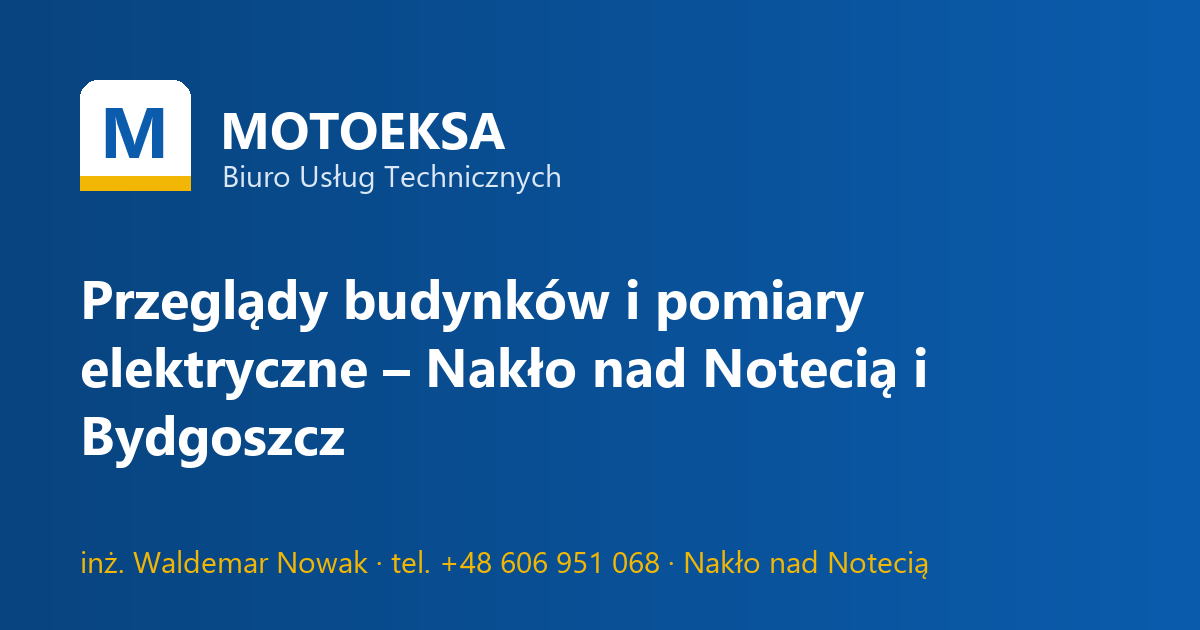
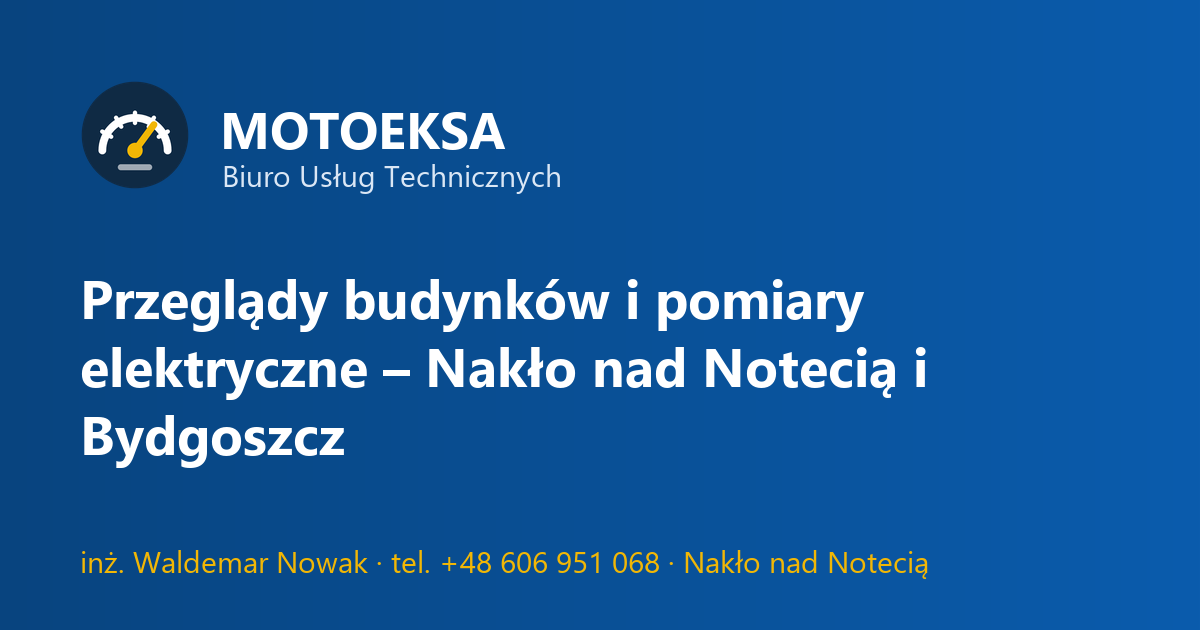
Aktualizacja strony 2026-10-22 14:14

Changed region(s): [[0.0617, 0.1206, 0.185, 0.3016]]

diff --git a/index.html b/index.html
@@ -101,7 +101,9 @@
     }
    ],
    "sameAs": [
-    "https://share.google/DEgC0BHQFHlprhYzm"
+    "https://share.google/DEgC0BHQFHlprhYzm",
+    "https://www.linkedin.com/in/waldemar-nowak-a03078222/",
+    "https://www.wpolsce24.pl/firma,1470610,Biuro+Us%C5%82ug+Technicznych+MOTOEKSA+Waldemar+Nowak.html"
    ],
    "openingHoursSpecification": [
     {
@@ -178,7 +180,7 @@
 
 <header class="naglowek">
   <div class="kontener naglowek-wnetrze">
-    <a class="logo" href="#start"><span class="logo-znak">M</span><span><b>MOTOEKSA</b><small>Biuro Usług Technicznych</small></span></a>
+    <a class="logo" href="#start"><span class="logo-znak logo-znak-svg" aria-hidden="true"><svg xmlns="http://www.w3.org/2000/svg" viewBox="0 0 64 64" width="40" height="40"><circle cx="32" cy="32" r="31" fill="#0f2a44"/><path d="M13 41 A19 19 0 0 1 51 41" fill="none" stroke="#fff" stroke-width="4.5" stroke-linecap="round"/><line x1="32" y1="25" x2="32" y2="19" stroke="#fff" stroke-width="2.5" stroke-linecap="round" transform="rotate(-60 32 41)"/><line x1="32" y1="25" x2="32" y2="19" stroke="#fff" stroke-width="2.5" stroke-linecap="round" transform="rotate(-30 32 41)"/><line x1="32" y1="25" x2="32" y2="19" stroke="#fff" stroke-width="2.5" stroke-linecap="round" transform="rotate(0 32 41)"/><line x1="32" y1="25" x2="32" y2="19" stroke="#fff" stroke-width="2.5" stroke-linecap="round" transform="rotate(30 32 41)"/><line x1="32" y1="25" x2="32" y2="19" stroke="#fff" stroke-width="2.5" stroke-linecap="round" transform="rotate(60 32 41)"/><line x1="32" y1="41" x2="43" y2="26" stroke="#f2b705" stroke-width="4" stroke-linecap="round"/><circle cx="32" cy="41" r="4.5" fill="#f2b705"/><rect x="22" y="49" width="20" height="3.5" rx="1.75" fill="#fff" opacity=".6"/></svg></span><span><b>MOTOEKSA</b><small>Biuro Usług Technicznych</small></span></a>
     <nav class="menu" aria-label="Menu główne">
       <a href="#uslugi">Usługi</a>
       <a href="#protokoly">Protokoły</a>

diff --git a/kompensacja-mocy-biernej/index.html b/kompensacja-mocy-biernej/index.html
@@ -101,7 +101,9 @@
     }
    ],
    "sameAs": [
-    "https://share.google/DEgC0BHQFHlprhYzm"
+    "https://share.google/DEgC0BHQFHlprhYzm",
+    "https://www.linkedin.com/in/waldemar-nowak-a03078222/",
+    "https://www.wpolsce24.pl/firma,1470610,Biuro+Us%C5%82ug+Technicznych+MOTOEKSA+Waldemar+Nowak.html"
    ],
    "openingHoursSpecification": [
     {
@@ -288,7 +290,7 @@
 
 <header class="naglowek">
   <div class="kontener naglowek-wnetrze">
-    <a class="logo" href="../"><span class="logo-znak">M</span><span><b>MOTOEKSA</b><small>Biuro Usług Technicznych</small></span></a>
+    <a class="logo" href="../"><span class="logo-znak logo-znak-svg" aria-hidden="true"><svg xmlns="http://www.w3.org/2000/svg" viewBox="0 0 64 64" width="40" height="40"><circle cx="32" cy="32" r="31" fill="#0f2a44"/><path d="M13 41 A19 19 0 0 1 51 41" fill="none" stroke="#fff" stroke-width="4.5" stroke-linecap="round"/><line x1="32" y1="25" x2="32" y2="19" stroke="#fff" stroke-width="2.5" stroke-linecap="round" transform="rotate(-60 32 41)"/><line x1="32" y1="25" x2="32" y2="19" stroke="#fff" stroke-width="2.5" stroke-linecap="round" transform="rotate(-30 32 41)"/><line x1="32" y1="25" x2="32" y2="19" stroke="#fff" stroke-width="2.5" stroke-linecap="round" transform="rotate(0 32 41)"/><line x1="32" y1="25" x2="32" y2="19" stroke="#fff" stroke-width="2.5" stroke-linecap="round" transform="rotate(30 32 41)"/><line x1="32" y1="25" x2="32" y2="19" stroke="#fff" stroke-width="2.5" stroke-linecap="round" transform="rotate(60 32 41)"/><line x1="32" y1="41" x2="43" y2="26" stroke="#f2b705" stroke-width="4" stroke-linecap="round"/><circle cx="32" cy="41" r="4.5" fill="#f2b705"/><rect x="22" y="49" width="20" height="3.5" rx="1.75" fill="#fff" opacity=".6"/></svg></span><span><b>MOTOEKSA</b><small>Biuro Usług Technicznych</small></span></a>
     <nav class="menu" aria-label="Menu główne">
       <a href="../">Strona główna</a>
       <a href="../#uslugi">Usługi</a>

diff --git a/oplata-mocowa-analiza-energii/index.html b/oplata-mocowa-analiza-energii/index.html
@@ -101,7 +101,9 @@
     }
    ],
    "sameAs": [
-    "https://share.google/DEgC0BHQFHlprhYzm"
+    "https://share.google/DEgC0BHQFHlprhYzm",
+    "https://www.linkedin.com/in/waldemar-nowak-a03078222/",
+    "https://www.wpolsce24.pl/firma,1470610,Biuro+Us%C5%82ug+Technicznych+MOTOEKSA+Waldemar+Nowak.html"
    ],
    "openingHoursSpecification": [
     {
@@ -288,7 +290,7 @@
 
 <header class="naglowek">
   <div class="kontener naglowek-wnetrze">
-    <a class="logo" href="../"><span class="logo-znak">M</span><span><b>MOTOEKSA</b><small>Biuro Usług Technicznych</small></span></a>
+    <a class="logo" href="../"><span class="logo-znak logo-znak-svg" aria-hidden="true"><svg xmlns="http://www.w3.org/2000/svg" viewBox="0 0 64 64" width="40" height="40"><circle cx="32" cy="32" r="31" fill="#0f2a44"/><path d="M13 41 A19 19 0 0 1 51 41" fill="none" stroke="#fff" stroke-width="4.5" stroke-linecap="round"/><line x1="32" y1="25" x2="32" y2="19" stroke="#fff" stroke-width="2.5" stroke-linecap="round" transform="rotate(-60 32 41)"/><line x1="32" y1="25" x2="32" y2="19" stroke="#fff" stroke-width="2.5" stroke-linecap="round" transform="rotate(-30 32 41)"/><line x1="32" y1="25" x2="32" y2="19" stroke="#fff" stroke-width="2.5" stroke-linecap="round" transform="rotate(0 32 41)"/><line x1="32" y1="25" x2="32" y2="19" stroke="#fff" stroke-width="2.5" stroke-linecap="round" transform="rotate(30 32 41)"/><line x1="32" y1="25" x2="32" y2="19" stroke="#fff" stroke-width="2.5" stroke-linecap="round" transform="rotate(60 32 41)"/><line x1="32" y1="41" x2="43" y2="26" stroke="#f2b705" stroke-width="4" stroke-linecap="round"/><circle cx="32" cy="41" r="4.5" fill="#f2b705"/><rect x="22" y="49" width="20" height="3.5" rx="1.75" fill="#fff" opacity=".6"/></svg></span><span><b>MOTOEKSA</b><small>Biuro Usług Technicznych</small></span></a>
     <nav class="menu" aria-label="Menu główne">
       <a href="../">Strona główna</a>
       <a href="../#uslugi">Usługi</a>

diff --git a/pomiary-elektryczne/index.html b/pomiary-elektryczne/index.html
@@ -101,7 +101,9 @@
     }
    ],
    "sameAs": [
-    "https://share.google/DEgC0BHQFHlprhYzm"
+    "https://share.google/DEgC0BHQFHlprhYzm",
+    "https://www.linkedin.com/in/waldemar-nowak-a03078222/",
+    "https://www.wpolsce24.pl/firma,1470610,Biuro+Us%C5%82ug+Technicznych+MOTOEKSA+Waldemar+Nowak.html"
    ],
    "openingHoursSpecification": [
     {
@@ -288,7 +290,7 @@
 
 <header class="naglowek">
   <div class="kontener naglowek-wnetrze">
-    <a class="logo" href="../"><span class="logo-znak">M</span><span><b>MOTOEKSA</b><small>Biuro Usług Technicznych</small></span></a>
+    <a class="logo" href="../"><span class="logo-znak logo-znak-svg" aria-hidden="true"><svg xmlns="http://www.w3.org/2000/svg" viewBox="0 0 64 64" width="40" height="40"><circle cx="32" cy="32" r="31" fill="#0f2a44"/><path d="M13 41 A19 19 0 0 1 51 41" fill="none" stroke="#fff" stroke-width="4.5" stroke-linecap="round"/><line x1="32" y1="25" x2="32" y2="19" stroke="#fff" stroke-width="2.5" stroke-linecap="round" transform="rotate(-60 32 41)"/><line x1="32" y1="25" x2="32" y2="19" stroke="#fff" stroke-width="2.5" stroke-linecap="round" transform="rotate(-30 32 41)"/><line x1="32" y1="25" x2="32" y2="19" stroke="#fff" stroke-width="2.5" stroke-linecap="round" transform="rotate(0 32 41)"/><line x1="32" y1="25" x2="32" y2="19" stroke="#fff" stroke-width="2.5" stroke-linecap="round" transform="rotate(30 32 41)"/><line x1="32" y1="25" x2="32" y2="19" stroke="#fff" stroke-width="2.5" stroke-linecap="round" transform="rotate(60 32 41)"/><line x1="32" y1="41" x2="43" y2="26" stroke="#f2b705" stroke-width="4" stroke-linecap="round"/><circle cx="32" cy="41" r="4.5" fill="#f2b705"/><rect x="22" y="49" width="20" height="3.5" rx="1.75" fill="#fff" opacity=".6"/></svg></span><span><b>MOTOEKSA</b><small>Biuro Usług Technicznych</small></span></a>
     <nav class="menu" aria-label="Menu główne">
       <a href="../">Strona główna</a>
       <a href="../#uslugi">Usługi</a>

diff --git a/przeglady-budynkow/index.html b/przeglady-budynkow/index.html
@@ -101,7 +101,9 @@
     }
    ],
    "sameAs": [
-    "https://share.google/DEgC0BHQFHlprhYzm"
+    "https://share.google/DEgC0BHQFHlprhYzm",
+    "https://www.linkedin.com/in/waldemar-nowak-a03078222/",
+    "https://www.wpolsce24.pl/firma,1470610,Biuro+Us%C5%82ug+Technicznych+MOTOEKSA+Waldemar+Nowak.html"
    ],
    "openingHoursSpecification": [
     {
@@ -296,7 +298,7 @@
 
 <header class="naglowek">
   <div class="kontener naglowek-wnetrze">
-    <a class="logo" href="../"><span class="logo-znak">M</span><span><b>MOTOEKSA</b><small>Biuro Usług Technicznych</small></span></a>
+    <a class="logo" href="../"><span class="logo-znak logo-znak-svg" aria-hidden="true"><svg xmlns="http://www.w3.org/2000/svg" viewBox="0 0 64 64" width="40" height="40"><circle cx="32" cy="32" r="31" fill="#0f2a44"/><path d="M13 41 A19 19 0 0 1 51 41" fill="none" stroke="#fff" stroke-width="4.5" stroke-linecap="round"/><line x1="32" y1="25" x2="32" y2="19" stroke="#fff" stroke-width="2.5" stroke-linecap="round" transform="rotate(-60 32 41)"/><line x1="32" y1="25" x2="32" y2="19" stroke="#fff" stroke-width="2.5" stroke-linecap="round" transform="rotate(-30 32 41)"/><line x1="32" y1="25" x2="32" y2="19" stroke="#fff" stroke-width="2.5" stroke-linecap="round" transform="rotate(0 32 41)"/><line x1="32" y1="25" x2="32" y2="19" stroke="#fff" stroke-width="2.5" stroke-linecap="round" transform="rotate(30 32 41)"/><line x1="32" y1="25" x2="32" y2="19" stroke="#fff" stroke-width="2.5" stroke-linecap="round" transform="rotate(60 32 41)"/><line x1="32" y1="41" x2="43" y2="26" stroke="#f2b705" stroke-width="4" stroke-linecap="round"/><circle cx="32" cy="41" r="4.5" fill="#f2b705"/><rect x="22" y="49" width="20" height="3.5" rx="1.75" fill="#fff" opacity=".6"/></svg></span><span><b>MOTOEKSA</b><small>Biuro Usług Technicznych</small></span></a>
     <nav class="menu" aria-label="Menu główne">
       <a href="../">Strona główna</a>
       <a href="../#uslugi">Usługi</a>

diff --git a/swiadectwa-energetyczne-audyty/index.html b/swiadectwa-energetyczne-audyty/index.html
@@ -101,7 +101,9 @@
     }
    ],
    "sameAs": [
-    "https://share.google/DEgC0BHQFHlprhYzm"
+    "https://share.google/DEgC0BHQFHlprhYzm",
+    "https://www.linkedin.com/in/waldemar-nowak-a03078222/",
+    "https://www.wpolsce24.pl/firma,1470610,Biuro+Us%C5%82ug+Technicznych+MOTOEKSA+Waldemar+Nowak.html"
    ],
    "openingHoursSpecification": [
     {
@@ -304,7 +306,7 @@
 
 <header class="naglowek">
   <div class="kontener naglowek-wnetrze">
-    <a class="logo" href="../"><span class="logo-znak">M</span><span><b>MOTOEKSA</b><small>Biuro Usług Technicznych</small></span></a>
+    <a class="logo" href="../"><span class="logo-znak logo-znak-svg" aria-hidden="true"><svg xmlns="http://www.w3.org/2000/svg" viewBox="0 0 64 64" width="40" height="40"><circle cx="32" cy="32" r="31" fill="#0f2a44"/><path d="M13 41 A19 19 0 0 1 51 41" fill="none" stroke="#fff" stroke-width="4.5" stroke-linecap="round"/><line x1="32" y1="25" x2="32" y2="19" stroke="#fff" stroke-width="2.5" stroke-linecap="round" transform="rotate(-60 32 41)"/><line x1="32" y1="25" x2="32" y2="19" stroke="#fff" stroke-width="2.5" stroke-linecap="round" transform="rotate(-30 32 41)"/><line x1="32" y1="25" x2="32" y2="19" stroke="#fff" stroke-width="2.5" stroke-linecap="round" transform="rotate(0 32 41)"/><line x1="32" y1="25" x2="32" y2="19" stroke="#fff" stroke-width="2.5" stroke-linecap="round" transform="rotate(30 32 41)"/><line x1="32" y1="25" x2="32" y2="19" stroke="#fff" stroke-width="2.5" stroke-linecap="round" transform="rotate(60 32 41)"/><line x1="32" y1="41" x2="43" y2="26" stroke="#f2b705" stroke-width="4" stroke-linecap="round"/><circle cx="32" cy="41" r="4.5" fill="#f2b705"/><rect x="22" y="49" width="20" height="3.5" rx="1.75" fill="#fff" opacity=".6"/></svg></span><span><b>MOTOEKSA</b><small>Biuro Usług Technicznych</small></span></a>
     <nav class="menu" aria-label="Menu główne">
       <a href="../">Strona główna</a>
       <a href="../#uslugi">Usługi</a>

diff --git a/polityka-prywatnosci.html b/polityka-prywatnosci.html
@@ -28,7 +28,7 @@
 
 <header class="naglowek">
   <div class="kontener naglowek-wnetrze">
-    <a class="logo" href="index.html"><span class="logo-znak">M</span><span><b>MOTOEKSA</b><small>Biuro Usług Technicznych</small></span></a>
+    <a class="logo" href="index.html"><span class="logo-znak logo-znak-svg" aria-hidden="true"><svg xmlns="http://www.w3.org/2000/svg" viewBox="0 0 64 64" width="40" height="40"><circle cx="32" cy="32" r="31" fill="#0f2a44"/><path d="M13 41 A19 19 0 0 1 51 41" fill="none" stroke="#fff" stroke-width="4.5" stroke-linecap="round"/><line x1="32" y1="25" x2="32" y2="19" stroke="#fff" stroke-width="2.5" stroke-linecap="round" transform="rotate(-60 32 41)"/><line x1="32" y1="25" x2="32" y2="19" stroke="#fff" stroke-width="2.5" stroke-linecap="round" transform="rotate(-30 32 41)"/><line x1="32" y1="25" x2="32" y2="19" stroke="#fff" stroke-width="2.5" stroke-linecap="round" transform="rotate(0 32 41)"/><line x1="32" y1="25" x2="32" y2="19" stroke="#fff" stroke-width="2.5" stroke-linecap="round" transform="rotate(30 32 41)"/><line x1="32" y1="25" x2="32" y2="19" stroke="#fff" stroke-width="2.5" stroke-linecap="round" transform="rotate(60 32 41)"/><line x1="32" y1="41" x2="43" y2="26" stroke="#f2b705" stroke-width="4" stroke-linecap="round"/><circle cx="32" cy="41" r="4.5" fill="#f2b705"/><rect x="22" y="49" width="20" height="3.5" rx="1.75" fill="#fff" opacity=".6"/></svg></span><span><b>MOTOEKSA</b><small>Biuro Usług Technicznych</small></span></a>
     <nav class="menu" aria-label="Menu główne">
       <a href="index.html">Strona główna</a>
       <a href="index.html#kontakt" class="menu-kontakt">Kontakt</a>

diff --git a/styl.css b/styl.css
@@ -54,6 +54,8 @@ h3 { font-size: 1.12rem; }
   background: var(--akcent); color: #fff; font-weight: 700; font-size: 1.3rem;
   box-shadow: inset 0 -4px 0 var(--zolty);
 }
+.logo-znak-svg { background: none; box-shadow: none; border-radius: 0; }
+.logo-znak-svg svg { display: block; width: 40px; height: 40px; }
 .menu { display: flex; gap: 4px; flex-wrap: wrap; }
 .menu a { text-decoration: none; color: var(--tekst); padding: 8px 12px; border-radius: 6px; font-size: .95rem; }
 .menu a:hover { background: var(--tlo-2); }
